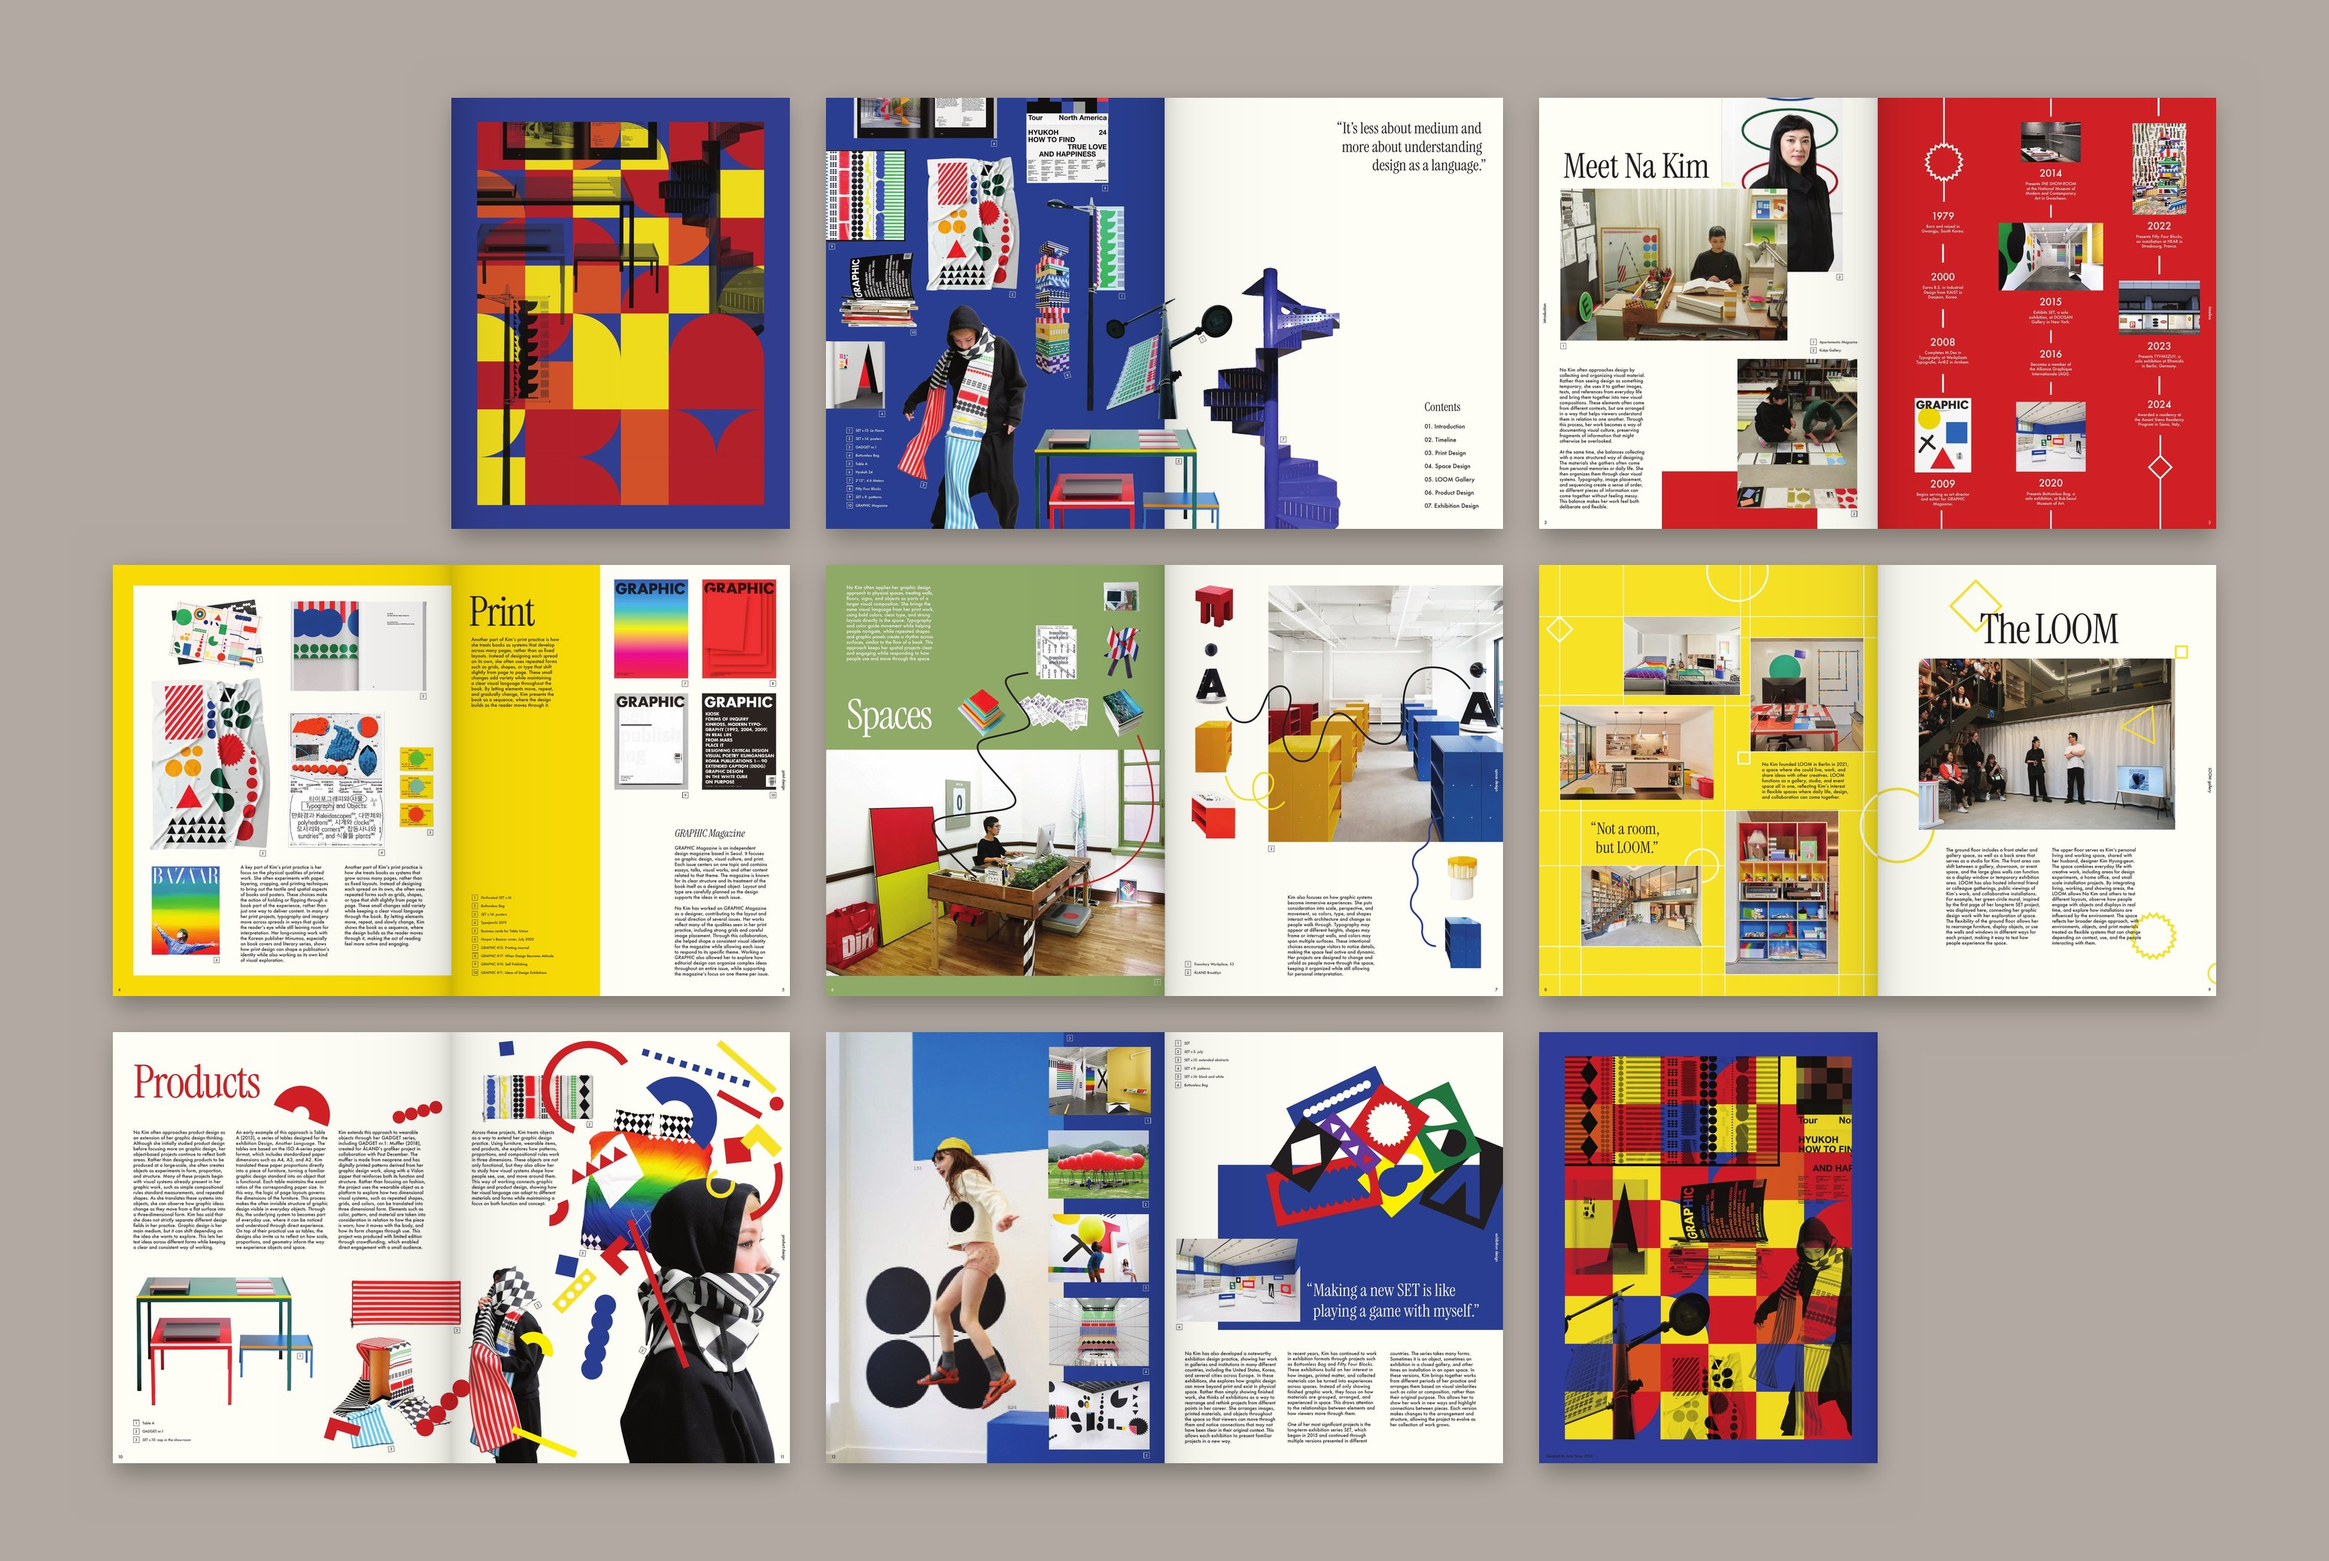
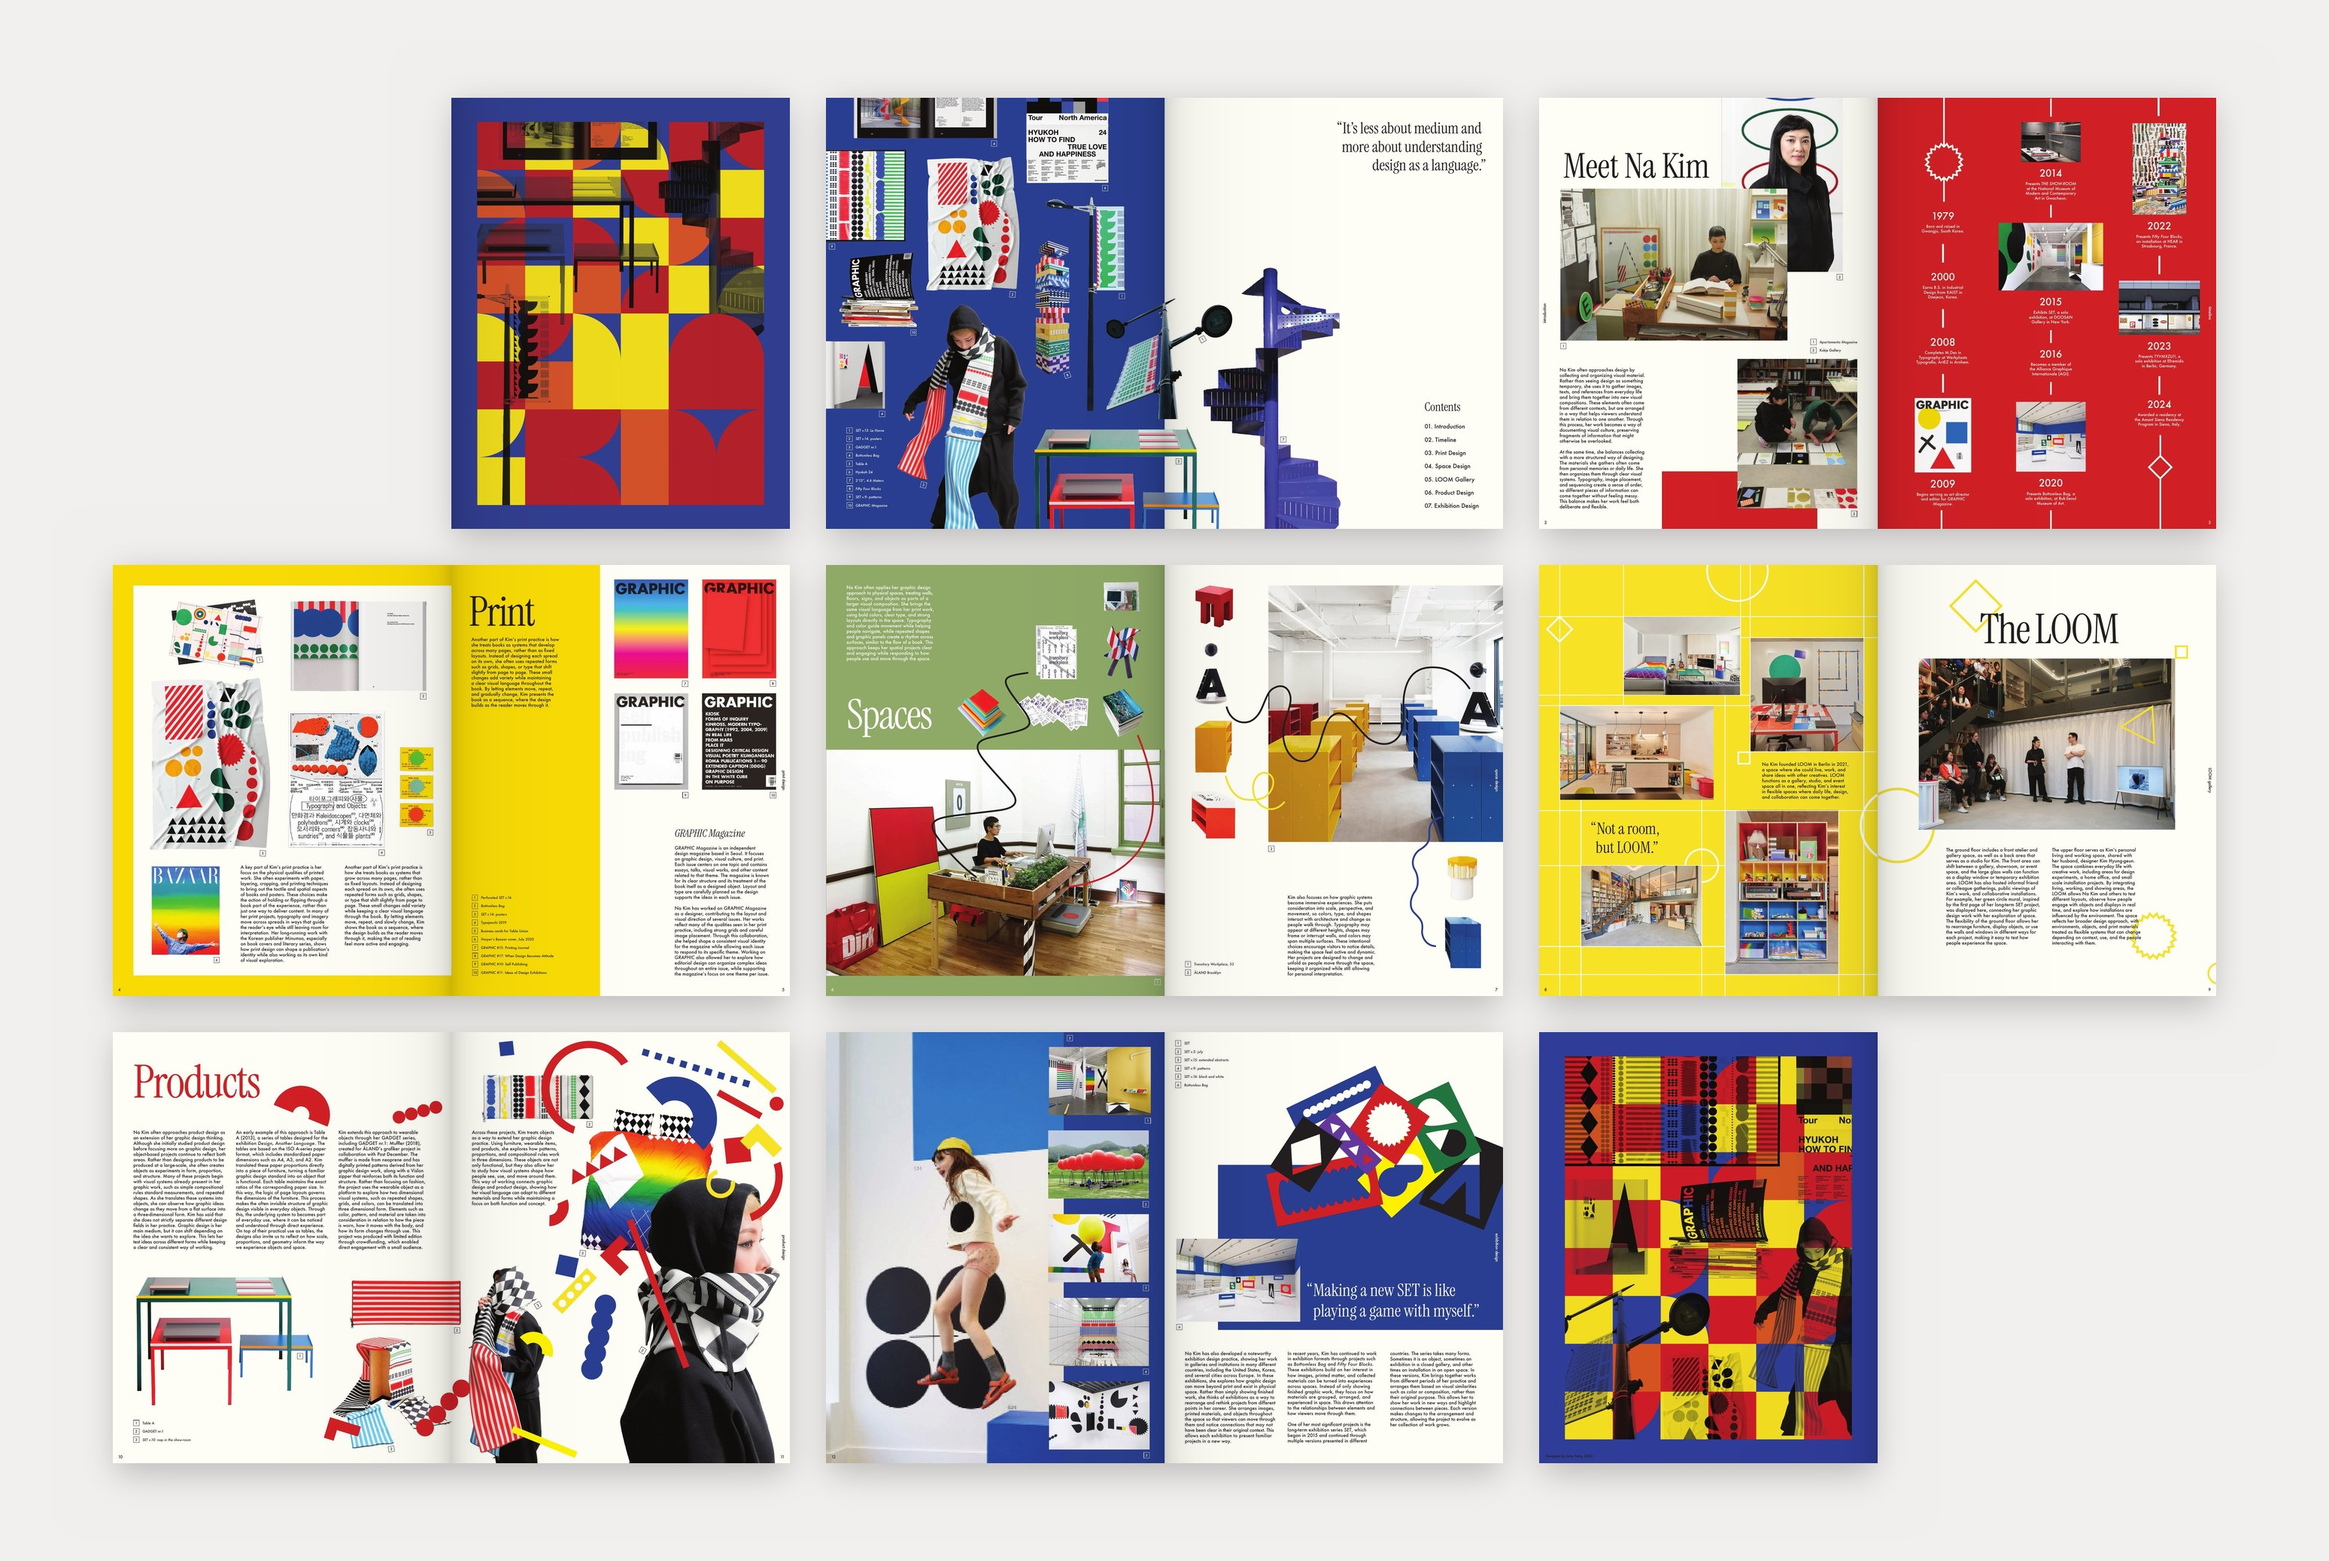
Design Hero: match overview background to flip-through video
Claude-Session: https://claude.ai/code/session_015vF3fknx26ijuPFq6BGXjN

diff --git a/design-hero-site/index.html b/design-hero-site/index.html
@@ -132,7 +132,7 @@
             <div class="gallery">
               <video class="mockup" src="videos/booklet-flip.mp4?v=1" poster="images/booklet-flip-poster.jpg?v=1" width="1920" height="1080" autoplay muted loop playsinline preload="auto"
                 aria-label="Flip-through of the booklet: the cover opens and each spread turns in order, from the contents to the exhibition spread, then it closes on the back cover"></video>
-              <img class="spread" src="images/booklet-overview.jpg?v=1" width="3096" height="2075" loading="lazy"
+              <img class="spread" src="images/booklet-overview.jpg?v=2" width="3096" height="2075" loading="lazy"
                 alt="All 16 pages of the booklet laid out in order on a table: front cover, seven spreads and back cover">
               <div class="panel panel--covers">
                 <img src="images/booklet-01.jpg" width="1000" height="1272" loading="lazy" alt="Booklet front cover: a pattern of squares and quarter circles with Na Kim's objects in black and white and her name in the corner">
